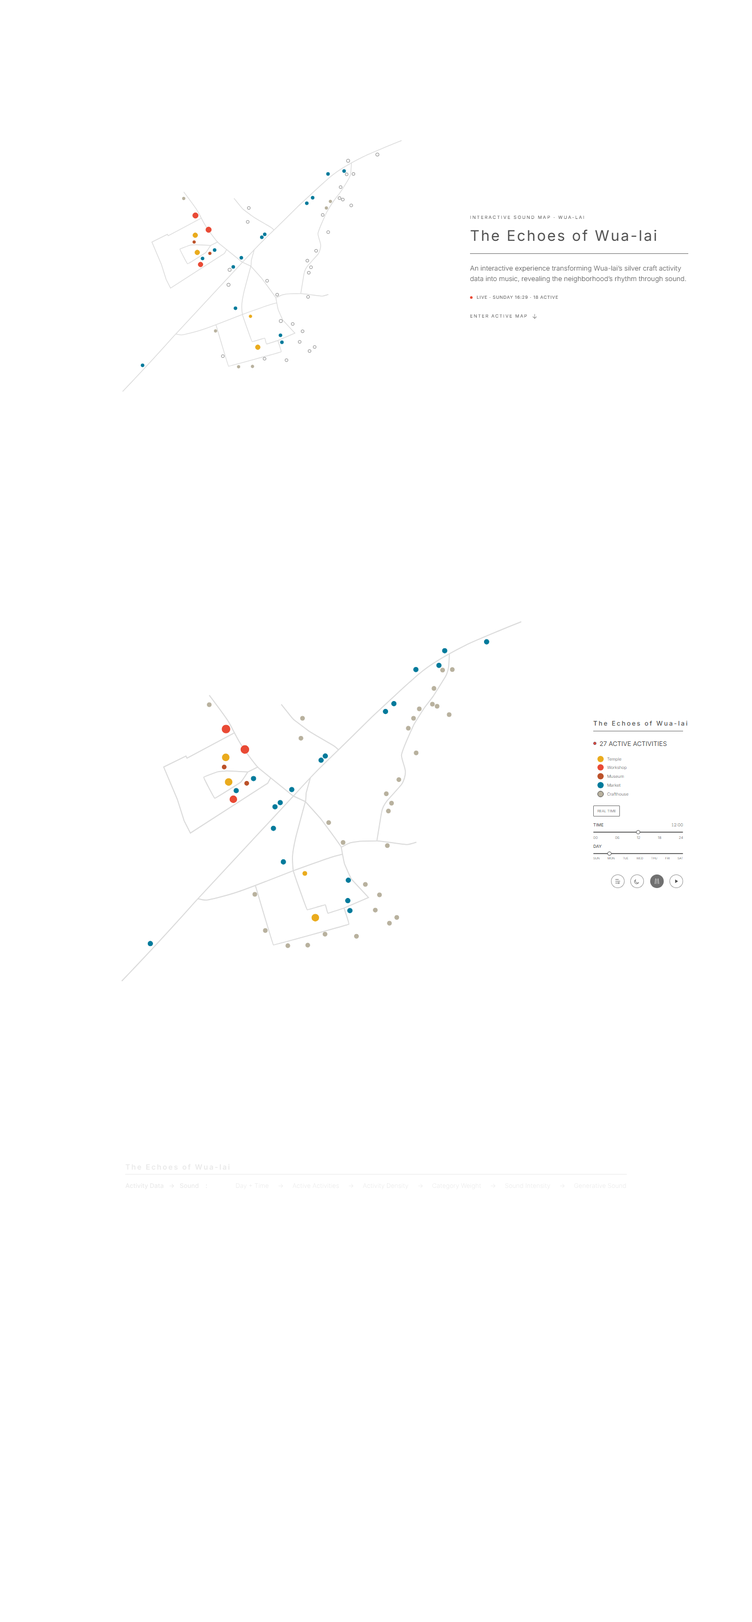
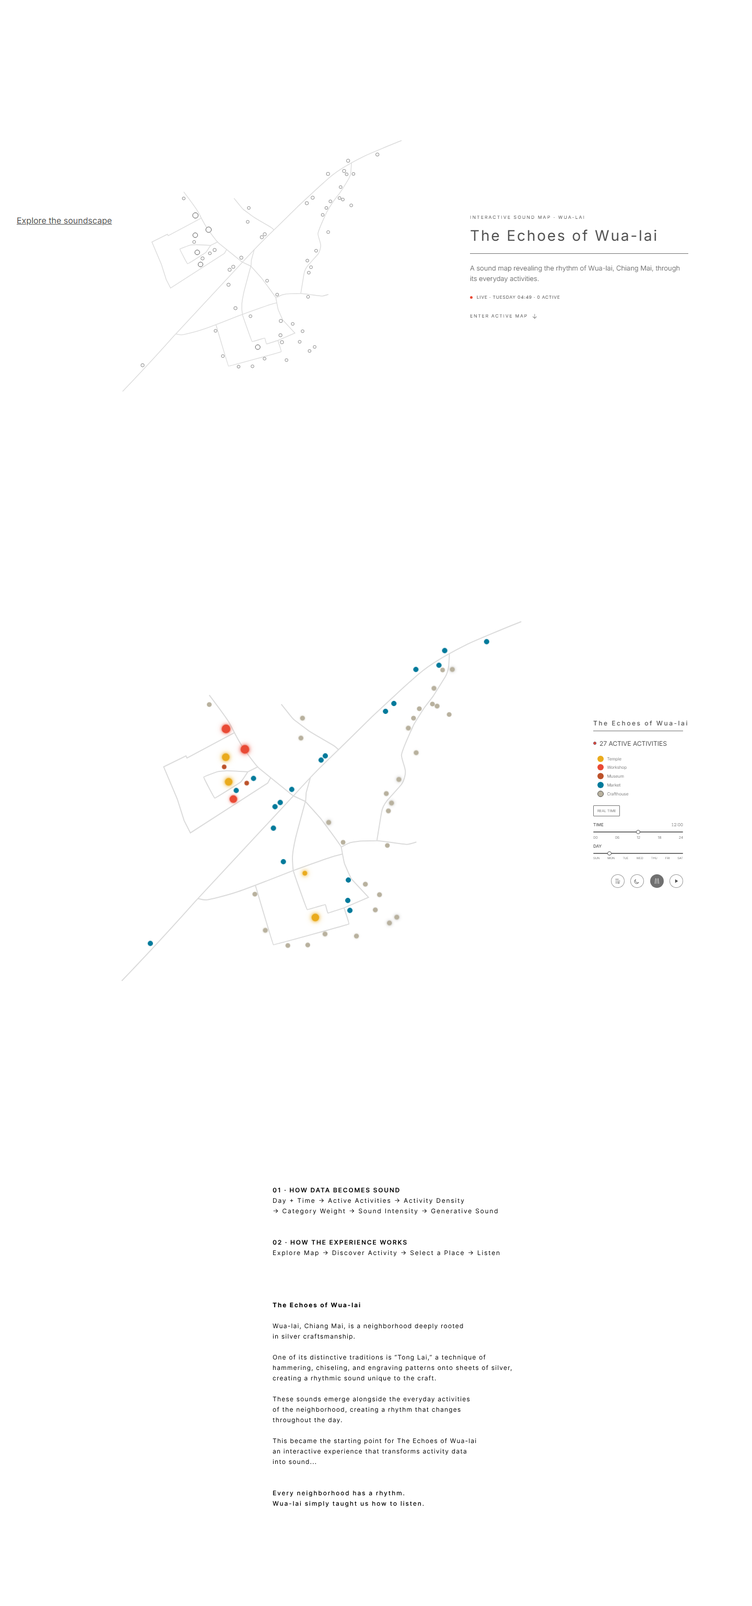
feat: refine hero motion and active map feedback

diff --git a/src/styles.css b/src/styles.css
@@ -1,14 +1,17 @@
 :root{font-family:Inter,'Noto Sans Thai',sans-serif;font-synthesis:none;text-rendering:optimizeLegibility;-webkit-font-smoothing:antialiased;--paper:#fff;--ink:#4f4f4f;--muted:#707070;--road:#dbdbdb;color:var(--ink);background:var(--paper);color-scheme:light}
-*{box-sizing:border-box}body{margin:0}button,input{font:inherit;color:inherit}button{cursor:pointer}button:focus-visible,a:focus-visible,input:focus-visible{outline:2px solid var(--ink);outline-offset:5px}button{background:none;border:0}html{scroll-behavior:smooth;scrollbar-width:thin}main{background:var(--paper);transition:background .4s,color .4s}.reference-section{min-height:100svh;display:grid;place-items:center}.reference-image{display:block;width:100%;max-height:100svh;object-fit:contain;aspect-ratio:1440/1024}.hero-link{display:block;width:100%;outline-offset:-8px}.experience{min-height:100svh;display:grid;align-items:center;scroll-margin-top:0}.experience-layout{display:grid;grid-template-columns:minmax(0,1fr) clamp(172px,11.94445vw,260px);gap:2.5%;padding-right:9.166667%;width:100%;max-width:calc(100svh * 1.40625);margin-inline:auto;align-items:center}.map-region{position:relative;min-width:0}.activity-map{display:block;width:100%;height:auto;aspect-ratio:1100/1024;overflow:visible}.base-roads{transition:opacity .3s}.map-marker{cursor:pointer;outline:none}.marker-visible{transition:fill .8s,stroke .8s}.focus-ring{fill:none;stroke:var(--ink);stroke-width:1;opacity:0}.map-marker:focus-visible .focus-ring,.map-marker[aria-pressed=true] .focus-ring{opacity:1}.route-marker:focus-visible .marker-visible,.route-marker[aria-pressed=true] .marker-visible{stroke-width:4}.controls{align-self:center;position:relative;min-width:0;transform:translateY(1px);font-size:clamp(11px,.833333vw,16px);font-weight:300}.controls h1{font-size:1em;font-weight:500;letter-spacing:.21em;line-height:1.35;margin:0;padding-bottom:.48em;border-bottom:1px solid var(--muted);white-space:nowrap}.active-count{font-weight:400;display:flex;align-items:center;gap:.5em;margin:1.3em 0 1.1em;white-space:nowrap;font-size:1em}.status-dot{display:inline-block;width:6px;height:6px;border-radius:50%;background:#e94a35;border:1px solid #73495d;flex-shrink:0}.status-dot.playing{animation:pulse 2s ease-in-out infinite}@keyframes pulse{50%{box-shadow:0 0 0 4px #e94a351a}}.legend{list-style:none;margin:0 0 1.7em;padding:0 0 0 1em;font-size:.666667em}.legend li{display:flex;align-items:center;gap:.8em;min-height:2.12em}.legend-dot{height:12px;width:12px;border-radius:50%;display:inline-block;flex-shrink:0}.legend-dot.outlined{border:1px solid var(--ink)}.realtime-button{border:.5px solid var(--muted);border-radius:1px;padding:.6em .95em;font-size:.583333em;line-height:1.4;min-height:20px;margin-bottom:1.65em}.realtime-button[aria-pressed=true]{background:var(--ink);color:var(--paper)}.timeline{font-size:.666667em}.timeline label{display:flex;justify-content:space-between;align-items:center;font-weight:500;font-size:1em}.timeline output{font-weight:300;font-variant-numeric:tabular-nums}.timeline input{display:block;width:100%;margin:1em 0 .5em;height:2px;appearance:none;background:var(--muted);border-radius:2px;cursor:pointer}.timeline input::-webkit-slider-thumb{appearance:none;width:8px;height:8px;background:var(--paper);border:1px solid var(--ink);border-radius:50%;box-shadow:0 0 0 4px transparent}.timeline input::-moz-range-thumb{width:6px;height:6px;background:var(--paper);border:1px solid var(--ink);border-radius:50%}.ticks{display:flex;justify-content:space-between;font-size:.85em;margin:.65em 0 1.05em}.day-ticks{font-size:.72em;margin-bottom:1.5em}.actions{display:flex;gap:10px;align-items:center}.circle-control{width:15px;height:15px;border:1px solid var(--muted);border-radius:50%;padding:0;position:relative;flex-shrink:0}.circle-control::after{content:'';position:absolute;inset:-4px;border-radius:50%}.circle-control[aria-pressed=true]{background:var(--muted)}.road-control[aria-pressed=true]{background:var(--paper)}.road-control[aria-pressed=false]{background:var(--muted)}.play-control{background:var(--muted)}.play-control[aria-pressed=true]{background:var(--paper);box-shadow:inset 0 0 0 3px var(--paper),inset 0 0 0 5px var(--muted)}.play-control.loading{animation:pulse 1s infinite}.playback-state{position:absolute;top:100%;font-size:.65em;line-height:1.6;margin:1em 0 0;white-space:nowrap}.audio-error{font-size:.8em;line-height:1.6;position:absolute;top:100%;padding-top:1em}.audio-error button{text-decoration:underline;padding:0}.place-detail{position:absolute;z-index:2;width:clamp(190px,18vw,280px);background:var(--paper);color:var(--ink);padding:14px 18px;border-left:1px solid var(--ink);font-size:12px;line-height:1.6;box-shadow:0 0 20px 12px var(--paper)}.place-detail h2{font-size:13px;font-weight:500;padding-right:16px;margin:0 0 8px;overflow-wrap:anywhere}.place-detail p{margin:3px 0}.place-detail .close-detail{position:absolute;right:3px;top:5px;font-size:18px;padding:3px}.place-detail .detail-category{color:var(--muted);font-size:11px}.place-detail .detail-state{margin-top:10px;display:flex;align-items:center;gap:7px}.detail-dot{width:6px;height:6px;border-radius:50%;display:inline-block;background:var(--ink)}.sr-only{position:absolute;width:1px;height:1px;padding:0;margin:-1px;overflow:hidden;clip:rect(0,0,0,0);white-space:nowrap;border:0}.skip-link{position:fixed;top:-80px;left:20px;z-index:10;background:var(--paper);color:var(--ink);padding:12px}.skip-link:focus{top:12px}[data-theme=night]{--paper:#171918;--ink:#d1d1cc;--muted:#aaaaa3;--road:#454947;color-scheme:dark}.dark-reference{filter:invert(.91) hue-rotate(180deg)}@media(prefers-reduced-motion:reduce){html{scroll-behavior:auto}*,*::before,*::after{animation:none!important;transition:none!important}}@media(min-width:1920px){.actions{gap:14px}.circle-control{width:18px;height:18px}.legend-dot{width:14px;height:14px}}@media(max-width:1023px){.experience-layout{grid-template-columns:minmax(0,1fr) 172px;gap:18px;padding-right:24px}.controls{font-size:11px}}
+*{box-sizing:border-box}body{margin:0}button,input{font:inherit;color:inherit}button{cursor:pointer}button:focus-visible,a:focus-visible,input:focus-visible{outline:2px solid var(--ink);outline-offset:5px}button{background:none;border:0}html{scroll-behavior:smooth;scrollbar-width:thin}main{background:var(--paper);transition:background .4s,color .4s}.reference-section{min-height:100svh;display:grid;place-items:center}.reference-image{display:block;width:100%;max-height:100svh;object-fit:contain;aspect-ratio:1440/1024}.hero-link{display:block;width:100%;outline-offset:-8px}.experience{min-height:100svh;display:grid;align-items:center;scroll-margin-top:0}.experience-layout{display:grid;grid-template-columns:minmax(0,1fr) clamp(172px,11.94445vw,260px);gap:2.5%;padding-right:9.166667%;width:100%;max-width:calc(100svh * 1.40625);margin-inline:auto;align-items:center}.map-region{position:relative;min-width:0}.activity-map{display:block;width:100%;height:auto;aspect-ratio:1100/1024;overflow:visible}.base-roads{transition:opacity .3s}.map-marker{cursor:pointer;outline:none}.marker-visible{transition:fill .8s,stroke .8s}.focus-ring{fill:none;stroke:var(--ink);stroke-width:1;opacity:0}.map-marker:focus-visible .focus-ring,.map-marker[aria-pressed=true] .focus-ring{opacity:1}.route-marker:focus-visible .marker-visible,.route-marker[aria-pressed=true] .marker-visible{stroke-width:4}.controls{align-self:center;position:relative;min-width:0;transform:translateY(1px);font-size:clamp(11px,.833333vw,16px);font-weight:300}.controls h1{font-size:1em;font-weight:500;letter-spacing:.21em;line-height:1.35;margin:0;padding-bottom:.48em;border-bottom:1px solid var(--muted);white-space:nowrap}.active-count{font-weight:400;display:flex;align-items:center;gap:.5em;margin:1.3em 0 1.1em;white-space:nowrap;font-size:1em}.status-dot{display:inline-block;width:6px;height:6px;border-radius:50%;background:#e94a35;border:1px solid #73495d;flex-shrink:0}.status-dot.playing{animation:pulse 2s ease-in-out infinite}@keyframes pulse{50%{box-shadow:0 0 0 4px #e94a351a}}.legend{list-style:none;margin:0 0 1.7em;padding:0 0 0 1em;font-size:.666667em}.legend li{display:flex;align-items:center;gap:.8em;min-height:2.12em}.legend-dot{height:12px;width:12px;border-radius:50%;display:inline-block;flex-shrink:0}.legend-dot.outlined{border:1px solid var(--ink)}.realtime-button{border:.5px solid var(--muted);border-radius:1px;padding:.6em .95em;font-size:.583333em;line-height:1.4;min-height:20px;margin-bottom:1.65em}.realtime-button[aria-pressed=true]{background:var(--ink);color:var(--paper)}.timeline{font-size:.666667em}.timeline label{display:flex;justify-content:space-between;align-items:center;font-weight:500;font-size:1em}.timeline output{font-weight:300;font-variant-numeric:tabular-nums}.timeline input{display:block;width:100%;margin:1em 0 .5em;height:2px;appearance:none;background:var(--muted);border-radius:2px;cursor:pointer}.timeline input::-webkit-slider-thumb{appearance:none;width:8px;height:8px;background:var(--paper);border:1px solid var(--ink);border-radius:50%;box-shadow:0 0 0 4px transparent}.timeline input::-moz-range-thumb{width:6px;height:6px;background:var(--paper);border:1px solid var(--ink);border-radius:50%}.ticks{display:flex;justify-content:space-between;font-size:.85em;margin:.65em 0 1.05em}.day-ticks{font-size:.72em;margin-bottom:1.5em}.actions{display:flex;gap:10px;align-items:center}.circle-control{width:15px;height:15px;border:1px solid var(--muted);border-radius:50%;padding:0;position:relative;flex-shrink:0}.circle-control::after{content:'';position:absolute;inset:-4px;border-radius:50%}.circle-control[aria-pressed=true]{background:var(--muted)}.road-control[aria-pressed=true]{background:var(--paper)}.road-control[aria-pressed=false]{background:var(--muted)}.play-control{background:var(--muted)}.play-control[aria-pressed=true]{background:var(--paper);box-shadow:inset 0 0 0 3px var(--paper),inset 0 0 0 5px var(--muted)}.play-control.loading{animation:pulse 1s infinite}.playback-state{position:absolute;top:100%;font-size:.65em;line-height:1.6;margin:1em 0 0;white-space:nowrap}.audio-error{font-size:.8em;line-height:1.6;position:absolute;top:100%;padding-top:1em}.audio-error button{text-decoration:underline;padding:0}.place-detail{position:absolute;z-index:2;width:clamp(190px,18vw,280px);background:var(--paper);color:var(--ink);padding:14px 18px;border-left:1px solid var(--ink);font-size:12px;line-height:1.6;box-shadow:0 0 20px 12px var(--paper)}.place-detail h2{font-size:13px;font-weight:500;padding-right:16px;margin:0 0 8px;overflow-wrap:anywhere}.place-detail p{margin:3px 0}.place-detail .close-detail{position:absolute;right:3px;top:5px;font-size:18px;padding:3px}.place-detail .detail-category{color:var(--muted);font-size:11px}.place-detail .detail-state{margin-top:10px;display:flex;align-items:center;gap:7px}.detail-dot{width:6px;height:6px;border-radius:50%;display:inline-block;background:var(--ink)}.sr-only{position:absolute;width:1px;height:1px;padding:0;margin:-1px;overflow:hidden;clip:rect(0,0,0,0);white-space:nowrap;border:0}.skip-link{position:fixed;top:-80px;left:20px;z-index:10;background:var(--paper);color:var(--ink);padding:12px}.skip-link:focus{top:12px}[data-theme=night]{--paper:#171918;--ink:#d1d1cc;--muted:#aaaaa3;--road:#454947;color-scheme:dark}.dark-reference{filter:invert(.91) hue-rotate(180deg)}@media(prefers-reduced-motion:reduce){html{scroll-behavior:auto}.method{transition:none}}@media(min-width:1920px){.actions{gap:14px}.circle-control{width:18px;height:18px}.legend-dot{width:14px;height:14px}}@media(max-width:1023px){.experience-layout{grid-template-columns:minmax(0,1fr) 172px;gap:18px;padding-right:24px}.controls{font-size:11px}}
 
 /* Interactive exhibition hero */
 .hero{min-height:100svh;display:grid;place-items:center;overflow:hidden}
 .hero-enter{width:100%;min-height:100svh;display:grid;grid-template-columns:minmax(0,1fr) clamp(300px,29vw,440px);align-items:center;gap:clamp(28px,4vw,76px);padding:4vh 8.5vw 4vh 5vw;text-align:left;background:var(--paper);color:var(--ink)}
-.hero-enter:focus-visible{outline-offset:-10px}.hero-map{min-width:0;clip-path:inset(0 100% 0 0);animation:heroReveal 1.25s cubic-bezier(.22,1,.36,1) .45s forwards}.hero-map .activity-map{max-height:82svh;margin:auto}.hero-map .map-marker{cursor:inherit}.hero-copy{align-self:center}.hero-kicker{font-size:clamp(8px,.6vw,11px);letter-spacing:.24em;margin:0 0 1.6em;opacity:0;animation:fadeUp .7s ease .9s forwards}.hero-copy h1{font-size:clamp(24px,2.35vw,42px);font-weight:400;letter-spacing:.14em;line-height:1.18;margin:0;padding-bottom:.6em;border-bottom:1px solid var(--muted);white-space:nowrap;clip-path:inset(0 100% 0 0);animation:heroReveal 1s cubic-bezier(.22,1,.36,1) .1s forwards}.hero-description{max-width:34em;font-size:clamp(12px,.9vw,16px);line-height:1.55;font-weight:300;margin:1.3em 0 1.6em;opacity:0;transform:translateY(8px);animation:fadeUp .8s ease 1.25s forwards}.hero-live{font-size:clamp(8px,.58vw,10px);letter-spacing:.1em;margin:0 0 2.2em;opacity:0;animation:fadeUp .7s ease 1.45s forwards}.hero-live span{display:inline-block;width:5px;height:5px;border-radius:50%;background:#e94a35;margin-right:.55em}.hero-cta{display:inline-flex;gap:.9em;align-items:center;font-size:clamp(8px,.6vw,11px);letter-spacing:.2em;opacity:0;animation:fadeUp .7s ease 1.65s forwards}.hero-cta b{font-size:1.4em;font-weight:300;transition:transform .25s}.hero-enter:hover .hero-cta b{transform:translateY(4px)}
-@keyframes heroReveal{to{clip-path:inset(0 0 0 0)}}@keyframes fadeUp{to{opacity:1;transform:translateY(0)}}
+.hero-enter:focus-visible{outline-offset:-10px}.hero-map{min-width:0;clip-path:inset(0 100% 0 0);transform:translateX(-18px);animation:heroMapReveal 1.15s cubic-bezier(.22,1,.36,1) .62s both}.hero-map .activity-map{max-height:82svh;margin:auto}.hero-map .map-marker{cursor:inherit}.hero-copy{align-self:center}.hero-kicker{font-size:clamp(8px,.6vw,11px);letter-spacing:.24em;margin:0 0 1.6em;opacity:0;animation:fadeUp .65s ease 1.88s forwards}.hero-copy h1{font-size:clamp(24px,2.35vw,42px);font-weight:400;letter-spacing:.14em;line-height:1.18;margin:0;padding-bottom:.6em;border-bottom:1px solid var(--muted);white-space:nowrap;clip-path:inset(0 100% 0 0);transform:translateX(-16px);animation:heroTitleReveal .9s cubic-bezier(.22,1,.36,1) .12s both}.hero-description{max-width:34em;font-size:clamp(12px,.9vw,16px);line-height:1.55;font-weight:300;margin:1.3em 0 1.6em;opacity:0;clip-path:inset(0 100% 0 0);transform:translateX(-10px);animation:heroDescriptionReveal .72s cubic-bezier(.22,1,.36,1) 1.85s both}.hero-live{font-size:clamp(8px,.58vw,10px);letter-spacing:.1em;margin:0 0 2.2em;opacity:0;animation:fadeUp .65s ease 2.12s forwards}.hero-live span{display:inline-block;width:5px;height:5px;border-radius:50%;background:#e94a35;margin-right:.55em}.hero-cta{display:inline-flex;gap:.9em;align-items:center;font-size:clamp(8px,.6vw,11px);letter-spacing:.2em;opacity:0;animation:fadeUp .65s ease 2.28s forwards}.hero-cta b{font-size:1.4em;font-weight:300;transition:transform .25s}.hero-enter:hover .hero-cta b{transform:translateY(4px)}
+@keyframes heroTitleReveal{to{clip-path:inset(0);transform:translateX(0)}}@keyframes heroMapReveal{to{clip-path:inset(0);transform:translateX(0)}}@keyframes heroDescriptionReveal{to{opacity:1;clip-path:inset(0);transform:translateX(0)}}@keyframes fadeUp{to{opacity:1;transform:translateY(0)}}
 
 /* Marker rhythm and activity focus */
-.map-marker{transition:opacity .35s ease,filter .35s ease,transform .35s cubic-bezier(.22,1,.36,1);transform-box:fill-box;transform-origin:center}.activity-map.has-focus .map-marker[data-dimmed=true]{opacity:.16;filter:grayscale(.65)}.activity-map.has-focus .map-marker[data-highlighted=true]{transform:scale(1.32)}.route-marker[data-highlighted=true]{transform:none;filter:drop-shadow(0 0 5px color-mix(in srgb,currentColor 30%,transparent))}.marker-ripple{pointer-events:none;opacity:0;transform-box:fill-box;transform-origin:center}.map-marker[data-audible=true] .marker-ripple{animation:markerRipple var(--rhythm) ease-out var(--phase) infinite}@keyframes markerRipple{0%{opacity:.32;transform:scale(.7)}55%,100%{opacity:0;transform:scale(2.15)}}.route-ripple{filter:blur(3px);transform:none!important}.route-marker[data-audible=true] .route-ripple{animation:routeRipple var(--rhythm) ease-out var(--phase) infinite}@keyframes routeRipple{0%{opacity:.22}55%,100%{opacity:0}}
+.map-marker{transition:opacity .35s ease,filter .35s ease,transform .35s cubic-bezier(.22,1,.36,1);transform-box:fill-box;transform-origin:center}.activity-map.has-focus .map-marker[data-dimmed=true]{opacity:.16;filter:grayscale(.65)}.activity-map.has-focus .map-marker[data-highlighted=true]{transform:scale(1.32)}.route-marker[data-highlighted=true]{transform:none;filter:drop-shadow(0 0 5px color-mix(in srgb,currentColor 30%,transparent))}.map-marker[data-active=true] .marker-visible{animation:activeMarkerGlow var(--rhythm) ease-in-out var(--phase) infinite}@keyframes activeMarkerGlow{0%,100%{filter:drop-shadow(0 0 0 transparent)}50%{filter:drop-shadow(0 0 3px var(--activity-color)) drop-shadow(0 0 6px color-mix(in srgb,var(--activity-color) 38%,transparent))}}
+
+/* Marker hover information */
+.marker-tooltip{position:absolute;z-index:4;width:clamp(168px,15vw,224px);display:grid;gap:2px;padding:10px 12px;background:color-mix(in srgb,var(--paper) 94%,transparent);color:var(--ink);border-left:1px solid var(--ink);box-shadow:0 8px 24px color-mix(in srgb,var(--ink) 9%,transparent);font-size:clamp(9px,.72vw,12px);line-height:1.5;pointer-events:none;animation:tooltipIn .18s ease-out both}.marker-tooltip strong{font-size:1.05em;font-weight:500;overflow-wrap:anywhere}.marker-tooltip>span{color:var(--muted)}.marker-tooltip[data-horizontal=right][data-vertical=below]{transform:translate(14px,14px)}.marker-tooltip[data-horizontal=right][data-vertical=above]{transform:translate(14px,calc(-100% - 14px))}.marker-tooltip[data-horizontal=left][data-vertical=below]{transform:translate(calc(-100% - 14px),14px)}.marker-tooltip[data-horizontal=left][data-vertical=above]{transform:translate(calc(-100% - 14px),calc(-100% - 14px))}.marker-tooltip .tooltip-state{display:flex;align-items:center;gap:6px;color:var(--ink)}.tooltip-state i{width:5px;height:5px;border-radius:50%;flex:none}.marker-tooltip[data-horizontal=left]{border-left:0;border-right:1px solid var(--ink)}@keyframes tooltipIn{from{opacity:0}to{opacity:1}}
 
 /* Unified icon controls */
 .actions{justify-content:flex-end;gap:clamp(8px,.8vw,14px);margin-top:2.35em}.circle-control{width:clamp(25px,1.8vw,32px);height:clamp(25px,1.8vw,32px);display:grid;place-items:center;background:var(--paper);color:var(--ink);border:1px solid color-mix(in srgb,var(--muted) 72%,transparent);transition:background .25s,color .25s,transform .25s,border-color .25s}.circle-control:hover{transform:translateY(-2px);border-color:var(--ink)}.circle-control[aria-pressed=true]{background:var(--muted);color:var(--paper)}.circle-control.loading{animation:pulse 1s infinite}.control-icon{width:58%;height:58%;fill:none;stroke:currentColor;stroke-width:1.25;stroke-linecap:round;stroke-linejoin:round}.control-icon .fill-icon{fill:currentColor;stroke:none}.playback-state,.audio-error{text-align:right;right:0}
@@ -16,7 +19,7 @@
 .method{opacity:.12;transform:translateY(30px);clip-path:inset(0 0 18% 0);transition:opacity 1s ease,transform 1s cubic-bezier(.22,1,.36,1),clip-path 1s cubic-bezier(.22,1,.36,1)}.method[data-revealed=true]{opacity:1;transform:none;clip-path:inset(0)}
 
 @media(max-width:1100px){.hero-enter{grid-template-columns:minmax(0,1fr) 280px;padding-inline:3vw 5vw;gap:22px}.hero-copy h1{font-size:22px}.hero-description{font-size:12px}}
-@media(prefers-reduced-motion:reduce){.hero-map,.hero-kicker,.hero-copy h1,.hero-description,.hero-live,.hero-cta{opacity:1;transform:none;clip-path:none;animation:none}.method{opacity:1;transform:none;clip-path:none}}
+
 .controls h2{font-size:1em;font-weight:500;letter-spacing:.21em;line-height:1.35;margin:0;padding-bottom:.48em;border-bottom:1px solid var(--muted);white-space:nowrap}
 .hero-copy h1{font-size:clamp(24px,1.95vw,34px);letter-spacing:.1em;white-space:normal}
 @media(max-width:1100px){.hero-copy h1{font-size:20px;letter-spacing:.075em;white-space:nowrap}}

diff --git a/src/components/Map.tsx b/src/components/Map.tsx
@@ -4,11 +4,11 @@ import type { CSSProperties } from 'react'
 
 type Props = {
   activeIds: string[]; showRoads: boolean; selectedId?: string; onSelect?: (marker: Marker) => void
-  interactive?: boolean; hoveredId?: string; onHover?: (placeId?: string) => void
-  playing?: boolean; rhythms?: Record<string, number>
+  interactive?: boolean; hoveredId?: string; onHover?: (marker?: Marker) => void
+  rhythms?: Record<string, number>
 }
 
-export function Map({ activeIds, showRoads, selectedId, onSelect, interactive = true, hoveredId, onHover, playing = false, rhythms = {} }: Props) {
+export function Map({ activeIds, showRoads, selectedId, onSelect, interactive = true, hoveredId, onHover, rhythms = {} }: Props) {
   const active = new Set(activeIds)
   const highlightedId = hoveredId ?? selectedId
   return <svg className={`activity-map ${highlightedId ? 'has-focus' : ''}`} viewBox="0 0 1100 1024"
@@ -26,25 +26,26 @@ export function Map({ activeIds, showRoads, selectedId, onSelect, interactive = 
       const isHovered = hoveredId === place.id
       const isSelected = selectedId === place.id
       const isHighlighted = highlightedId === place.id
-      const audible = playing && isActive && (!highlightedId || isHighlighted)
-      const style = { '--rhythm': `${rhythms[place.id] ?? 3.2}s`, '--phase': `${.05 + (Number(place.id.slice(1)) % 7) * .1}s` } as CSSProperties
+      const style = {
+        '--rhythm': `${rhythms[place.id] ?? 3.2}s`,
+        '--phase': `${.05 + (Number(place.id.slice(1)) % 7) * .1}s`,
+        '--activity-color': isActive ? colors[place.category] : 'transparent',
+      } as CSSProperties
       return <g key={marker.id} data-marker={marker.id} data-place={place.id} data-active={isActive}
         data-category={place.category} data-hovered={isHovered} data-selected={isSelected}
-        data-highlighted={isHighlighted} data-dimmed={Boolean(highlightedId && !isHighlighted)} data-audible={audible}
+        data-highlighted={isHighlighted} data-dimmed={Boolean(highlightedId && !isHighlighted)}
         className={`map-marker ${isRoute ? 'route-marker' : ''}`} role={interactive ? 'button' : undefined} tabIndex={interactive ? 0 : undefined}
         aria-label={label} aria-pressed={selectedId === place.id}
-        style={style} onPointerEnter={interactive ? () => onHover?.(place.id) : undefined} onPointerLeave={interactive ? () => onHover?.() : undefined}
-        onFocus={interactive ? () => onHover?.(place.id) : undefined} onBlur={interactive ? () => onHover?.() : undefined}
+        style={style} onPointerEnter={interactive ? () => onHover?.(marker) : undefined} onPointerLeave={interactive ? () => onHover?.() : undefined}
+        onFocus={interactive ? () => onHover?.(marker) : undefined} onBlur={interactive ? () => onHover?.() : undefined}
         onClick={interactive ? () => onSelect?.(marker) : undefined} onKeyDown={interactive ? event => {
           if (event.key === 'Enter' || event.key === ' ') { event.preventDefault(); onSelect?.(marker) }
         } : undefined}>
         <title>{label}</title>
         {isRoute ? <>
-          <path className="marker-ripple route-ripple" d={marker.geometry.d} fill="none" stroke={color} strokeWidth="5" strokeLinecap="round" />
           <path className="marker-visible" d={marker.geometry.d} fill="none" stroke={isActive ? color : 'var(--road)'} strokeWidth="2" strokeLinecap="round" />
           <path d={marker.geometry.d} fill="none" stroke="transparent" strokeWidth="16" className="hit-target" />
         </> : <>
-          <circle className="marker-ripple" cx={marker.x} cy={marker.y} r={isCrafthouse ? 5 : 7} fill="none" stroke={color} strokeWidth="2" />
           {marker.frame && !isCrafthouse && <rect x={marker.x - 4} y={marker.y - 4} width="8" height="8" fill="none" stroke="var(--ink)" strokeWidth=".7" />}
           {isCrafthouse
             ? <circle className="marker-visible" cx={marker.x} cy={marker.y} r="4" fill={isActive ? color : 'var(--paper)'} stroke={color} strokeWidth="1" />

diff --git a/tests/browser/interaction.spec.ts b/tests/browser/interaction.spec.ts
@@ -39,9 +39,19 @@ test('day/time state, duplicate markers, details and appearance controls', async
 })
 
 test('interactive hero, unified icon controls, persistent marker selection and method reveal', async ({page}) => {
+  await page.emulateMedia({reducedMotion:'reduce'})
   await page.goto('/')
   await expect(page.locator('.hero .activity-map')).toBeVisible()
   await expect(page.locator('.hero-copy h1')).toContainText('The Echoes of Wua-lai')
+  await expect(page.locator('.hero-description')).toHaveText('A sound map revealing the rhythm of Wua-lai, Chiang Mai, through its everyday activities.')
+  const sequence = await Promise.all(['.hero-copy h1','.hero-map','.hero-description'].map(selector =>
+    page.locator(selector).evaluate(element => {
+      const style = getComputedStyle(element)
+      return { name: style.animationName, delay: parseFloat(style.animationDelay), duration: parseFloat(style.animationDuration) }
+    })))
+  expect(sequence.map(stage => stage.name)).toEqual(['heroTitleReveal','heroMapReveal','heroDescriptionReveal'])
+  expect(sequence[0].delay).toBeLessThan(sequence[1].delay)
+  expect(sequence[1].delay + sequence[1].duration).toBeLessThanOrEqual(sequence[2].delay)
   await expect(page.locator('.hero .map-marker')).toHaveCount(60)
   await expect(page.locator('.hero [data-category="Crafthouse"] rect')).toHaveCount(0)
   await page.getByRole('button', {name:'Enter the active map'}).click()
@@ -60,4 +70,34 @@ test('interactive hero, unified icon controls, persistent marker selection and m
   await page.getByRole('button', {name:'View how it works'}).click()
   await expect(page.locator('.method')).toHaveAttribute('data-revealed', 'true')
   await expect(page.locator('.method')).toBeInViewport()
+})
+
+test('active markers glow continuously and hover tooltip avoids its marker', async ({page}) => {
+  await page.emulateMedia({reducedMotion:'reduce'})
+  await page.goto('/#experience')
+  const activeMarker = page.locator('#experience [data-place=P20]').first()
+  await expect(activeMarker).toHaveAttribute('data-active', 'true')
+  const visibleShape = activeMarker.locator('.marker-visible')
+  await expect(visibleShape).toHaveCSS('animation-name', 'activeMarkerGlow')
+  await expect(page.locator('#experience .marker-ripple')).toHaveCount(0)
+  await expect(page.getByRole('button', {name:'Play soundscape',exact:true})).toBeVisible()
+  await expect(visibleShape).toHaveCSS('animation-name', 'activeMarkerGlow')
+
+  const edgeMarker = page.locator('#experience [data-marker=m123]')
+  await edgeMarker.hover()
+  const tooltip = page.getByRole('tooltip')
+  await expect(tooltip).toBeVisible()
+  await expect(tooltip).toContainText('Silver Shop')
+  await expect(tooltip).toContainText(/Active|Inactive/)
+  await expect(tooltip).toHaveAttribute('data-horizontal', 'left')
+  await expect(tooltip).toHaveAttribute('data-vertical', 'below')
+  const markerBox = await edgeMarker.boundingBox()
+  const tooltipBox = await tooltip.boundingBox()
+  const overlaps = markerBox!.x < tooltipBox!.x + tooltipBox!.width && markerBox!.x + markerBox!.width > tooltipBox!.x &&
+    markerBox!.y < tooltipBox!.y + tooltipBox!.height && markerBox!.y + markerBox!.height > tooltipBox!.y
+  expect(overlaps).toBe(false)
+
+  await setSlider(page, 'Time', 1440)
+  await expect(activeMarker).toHaveAttribute('data-active', 'false')
+  await expect(visibleShape).toHaveCSS('animation-name', 'none')
 })

diff --git a/src/App.tsx b/src/App.tsx
@@ -8,6 +8,7 @@ import { data } from './data'
 import { useSoundscape } from './audio/useSoundscape'
 import { buildVoices } from './audio/score'
 import { Hero } from './components/Hero'
+import { MarkerTooltip } from './components/MarkerTooltip'
 
 export default function App() {
   const [day, setDay] = useState(0)
@@ -17,7 +18,7 @@ export default function App() {
   const [dark, setDark] = useState(false)
   const [roads, setRoads] = useState(true)
   const [selected, setSelected] = useState<Marker>()
-  const [hoveredId, setHoveredId] = useState<string>()
+  const [hovered, setHovered] = useState<Marker>()
   const [heroClock, setHeroClock] = useState(() => bangkokTime())
   const [methodRevealed, setMethodRevealed] = useState(false)
   const methodRef = useRef<HTMLElement>(null)
@@ -44,13 +45,13 @@ export default function App() {
     observer.observe(node)
     return () => observer.disconnect()
   }, [])
-  const hoverActivity = (placeId?: string) => {
-    setHoveredId(placeId)
-    audio.solo(placeId ?? selected?.placeId, .4)
+  const hoverActivity = (marker?: Marker) => {
+    setHovered(marker)
+    audio.solo(marker?.placeId ?? selected?.placeId, .4)
   }
   const selectActivity = (marker: Marker) => {
     setSelected(marker)
-    setHoveredId(undefined)
+    setHovered(undefined)
     audio.solo(marker.placeId, .8)
     audio.start()
   }
@@ -66,7 +67,7 @@ export default function App() {
   const closeDetail = () => {
     const marker = selected
     setSelected(undefined)
-    audio.solo(hoveredId, .8)
+    audio.solo(hovered?.placeId, .8)
     if (marker) document.querySelector<SVGGElement>(`[data-marker="${marker.id}"]`)?.focus({ preventScroll: true })
   }
   return <main data-theme={dark ? 'night' : 'day'}>
@@ -76,7 +77,8 @@ export default function App() {
       <div className="experience-layout">
         <div className="map-region">
           <Map activeIds={activity.activeIds} showRoads={roads} selectedId={selected?.placeId} onSelect={selectActivity}
-            hoveredId={hoveredId} onHover={hoverActivity} playing={audio.playing && !muted} rhythms={rhythms} />
+            hoveredId={hovered?.placeId} onHover={hoverActivity} rhythms={rhythms} />
+          {hovered && <MarkerTooltip marker={hovered} day={day} active={activity.activeIds.includes(hovered.placeId)} />}
           {selected && <PlaceDetail marker={selected} day={day} active={activity.activeIds.includes(selected.placeId)} onClose={closeDetail} />}
         </div>
         <Controls day={day} minute={minute} count={activity.density} realtime={realtime} muted={muted} dark={dark} roads={roads}
@@ -86,7 +88,7 @@ export default function App() {
       </div>
     </section>
     <section ref={methodRef} className="method reference-section" aria-label="How it works" data-revealed={methodRevealed}>
-      <img className={`reference-image ${dark ? 'dark-reference' : ''}`} src={`${import.meta.env.BASE_URL}references/Method.svg`} alt="Activity Data to Sound: Day and Time, Active Activities, Activity Density, Category Weight, Sound Intensity, Generative Sound." />
+      <img className={`reference-image ${dark ? 'dark-reference' : ''}`} src={`${import.meta.env.BASE_URL}references/Method.svg`} alt="How Wua-lai activity data becomes sound and how to explore the interactive experience." />
     </section>
   </main>
 }

diff --git a/src/components/MarkerTooltip.tsx b/src/components/MarkerTooltip.tsx
@@ -1,0 +1,19 @@
+import type { CSSProperties } from 'react'
+import { formatTime } from '../activity'
+import { colors, fullDays, placeById } from '../data'
+import type { Marker } from '../data/types'
+
+export function MarkerTooltip({ marker, day, active }: { marker: Marker; day: number; active: boolean }) {
+  const place = placeById.get(marker.placeId)!
+  const hours = place.hours[day]
+  const horizontal = marker.x > 650 ? 'left' : 'right'
+  const vertical = marker.y < 300 ? 'below' : 'above'
+  const style = { left: `${marker.x / 1100 * 100}%`, top: `${marker.y / 1024 * 100}%` } as CSSProperties
+
+  return <aside className="marker-tooltip" role="tooltip" data-horizontal={horizontal} data-vertical={vertical} style={style}>
+    <strong lang={/[ก-๙]/.test(place.name) ? 'th' : undefined}>{place.name}</strong>
+    <span>{place.category}</span>
+    <span>{fullDays[day]} · {hours ? `${formatTime(hours[0])}–${formatTime(hours[1])}` : 'Closed'}</span>
+    <span className="tooltip-state"><i style={{ background: active ? colors[place.category] : 'var(--muted)' }} />{active ? 'Active' : 'Inactive'}</span>
+  </aside>
+}

diff --git a/src/components/Hero.tsx b/src/components/Hero.tsx
@@ -14,7 +14,7 @@ export function Hero({activity, day, minute, dark, onEnter}: {
       <div className="hero-copy">
         <p className="hero-kicker">INTERACTIVE SOUND MAP · WUA-LAI</p>
         <h1>The Echoes of Wua-lai</h1>
-        <p className="hero-description">An interactive experience transforming Wua-lai’s silver craft activity data into music, revealing the neighborhood’s rhythm through sound.</p>
+        <p className="hero-description">A sound map revealing the rhythm of Wua-lai, Chiang Mai, through its everyday activities.</p>
         <p className="hero-live"><span /> LIVE · {fullDays[day].toUpperCase()} {formatTime(minute)} · {activity.density} ACTIVE</p>
         <span className="hero-cta">ENTER ACTIVE MAP <b aria-hidden="true">↓</b></span>
       </div>

diff --git a/docs/TEST_REPORT.md b/docs/TEST_REPORT.md
@@ -8,14 +8,14 @@ Run date: 2026-09-22 (Asia/Bangkok). Host: Windows desktop environment.
 - Vitest: 13 tests covering 10,087 weekly minute samples, open/close boundaries, `Close`, decimal times, 24:00, duplicate markers, approved density/intensity fixtures, audio voice/weight rules and activity soloing.
 - Desktop geometry: 1024×768, 1280×720, 1366×768, 1440×900, 1440×1024, 1920×1080 and 2560×1440; map aspect, control separation and horizontal overflow checked after each live resize.
 - DPR: Chromium desktop geometry repeated at device scale factors 1 and 2.
-- Interaction: live silent Hero, user-gesture entry, day, minute, real time exit, P14 route, repeated P20 markers, persistent marker selection and details, marker fading, hover focus, Method reveal, icon controls, night theme and road visibility.
+- Interaction: sequenced left-to-right Hero reveal, live silent Hero, user-gesture entry, day, minute, real time exit, P14 route, repeated P20 markers, persistent marker selection and details, continuous active glow, adaptive hover tooltip, marker fading, Method reveal, icon controls, night theme and road visibility.
 - Audio on Chromium: Hero remains silent before user entry; user-gesture start, decoded local musical samples with measurable output, hover preview, persistent selection solo, smooth activity crossfades, silence at 24:00, pause/resume, one AudioContext, failed fetch/retry and cancellation during load. Crowd audio is not requested.
 
 ## Browser results
 
 | Browser target | Result on this host | Scope |
 |---|---|---|
-| Playwright Chromium | Pass | 7 applicable Chromium/DPR checks passed in a sequential verification run; UI, responsive matrix, interactions and full Web Audio tests |
+| Playwright Chromium | Pass | 8 applicable Chromium/DPR checks passed in a sequential verification run; UI, responsive matrix, interactions and full Web Audio tests |
 | Playwright WebKit | Pass for UI and interactions | This Windows Playwright build does not expose `AudioContext`; the application reports the unsupported state and its capability test passes |
 | Playwright Firefox | Could not launch on this host | The installed Playwright Firefox binary exits before page creation with Windows `spawn UNKNOWN`, both inside and outside the sandbox; no application assertion ran |
 | macOS Safari | Not run | No macOS host was available; Playwright WebKit is simulation coverage and is not reported as a real Safari test |
@@ -24,6 +24,6 @@ Run date: 2026-09-22 (Asia/Bangkok). Host: Windows desktop environment.
 
 At 1440×1024 the map uses the original 1100×1024 viewBox and the control column begins at x=1136, matching the supplied composition. All eight road paths retain the original `d` geometry. Markers share the same source coordinate system, so resize and DPR changes do not recalculate positions. Dynamic labels use Inter with Noto Sans Thai fallback; static artwork remains the supplied outlined SVG.
 
-The latest full-page 1440-pixel capture is preserved at `docs/screenshots/desktop-1440.png` for review beside the supplied source SVGs.
+The latest full-page 1440-pixel capture is preserved at `docs/screenshots/desktop-1440.png` for review beside the supplied source SVGs. The final page uses the supplied `Method (3).svg`, preserved as `sources/method-v3.svg` and served as `public/references/Method.svg`.
 
 The approved data-driven differences from the mockup are the active count, active marker colors (including P15 Workshop and P13 Temple), P14's selected state and the added accessible interaction hit areas.

diff --git a/README.md b/README.md
@@ -15,7 +15,7 @@ npm run dev
 
 Open `http://127.0.0.1:5173`. The live Hero remains silent; audio starts only after entering the Active Map or pressing Play. All runtime audio is stored in the repository, so playback makes no remote requests.
 
-Selecting a marker keeps its place highlighted, fades the other markers, opens its current-day details and isolates its continuous activity voice. Selecting another marker crossfades to the new voice; hovering previews an activity without changing the underlying map or schedule data.
+Selecting a marker keeps its place highlighted, fades the other markers, opens its current-day details and isolates its continuous activity voice. Selecting another marker crossfades to the new voice. Hovering previews an activity and shows an automatically positioned tooltip. Every active marker keeps a subtle category-colored glow pulse for its entire active period, independently of audio playback.
 
 ## Source data
 
